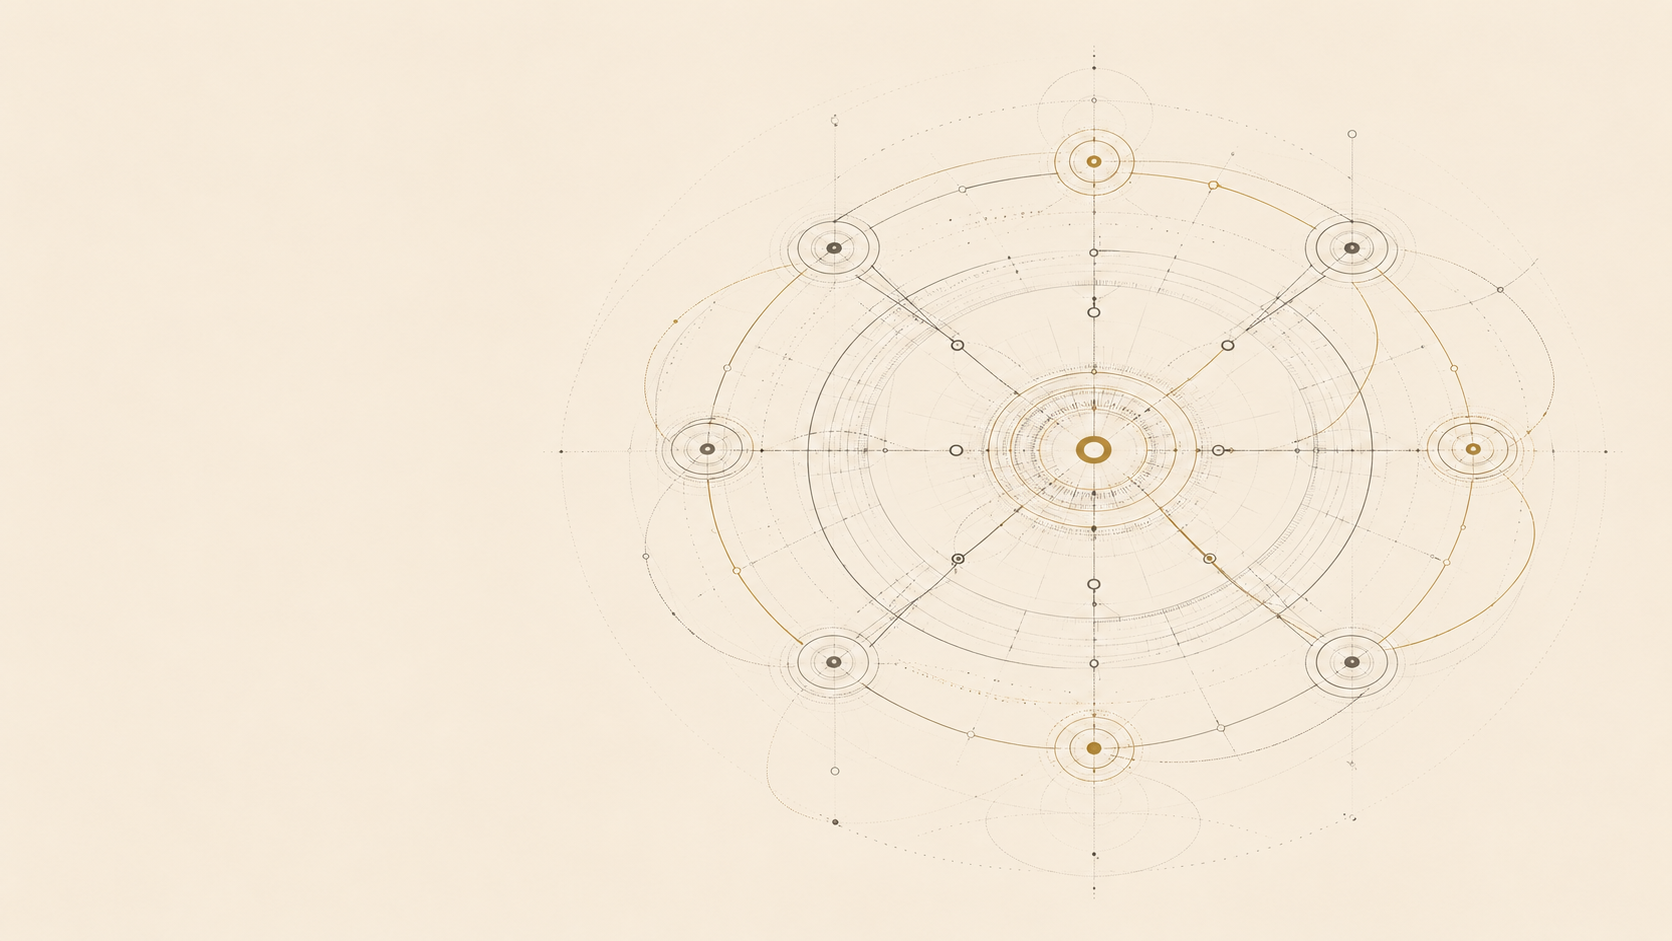
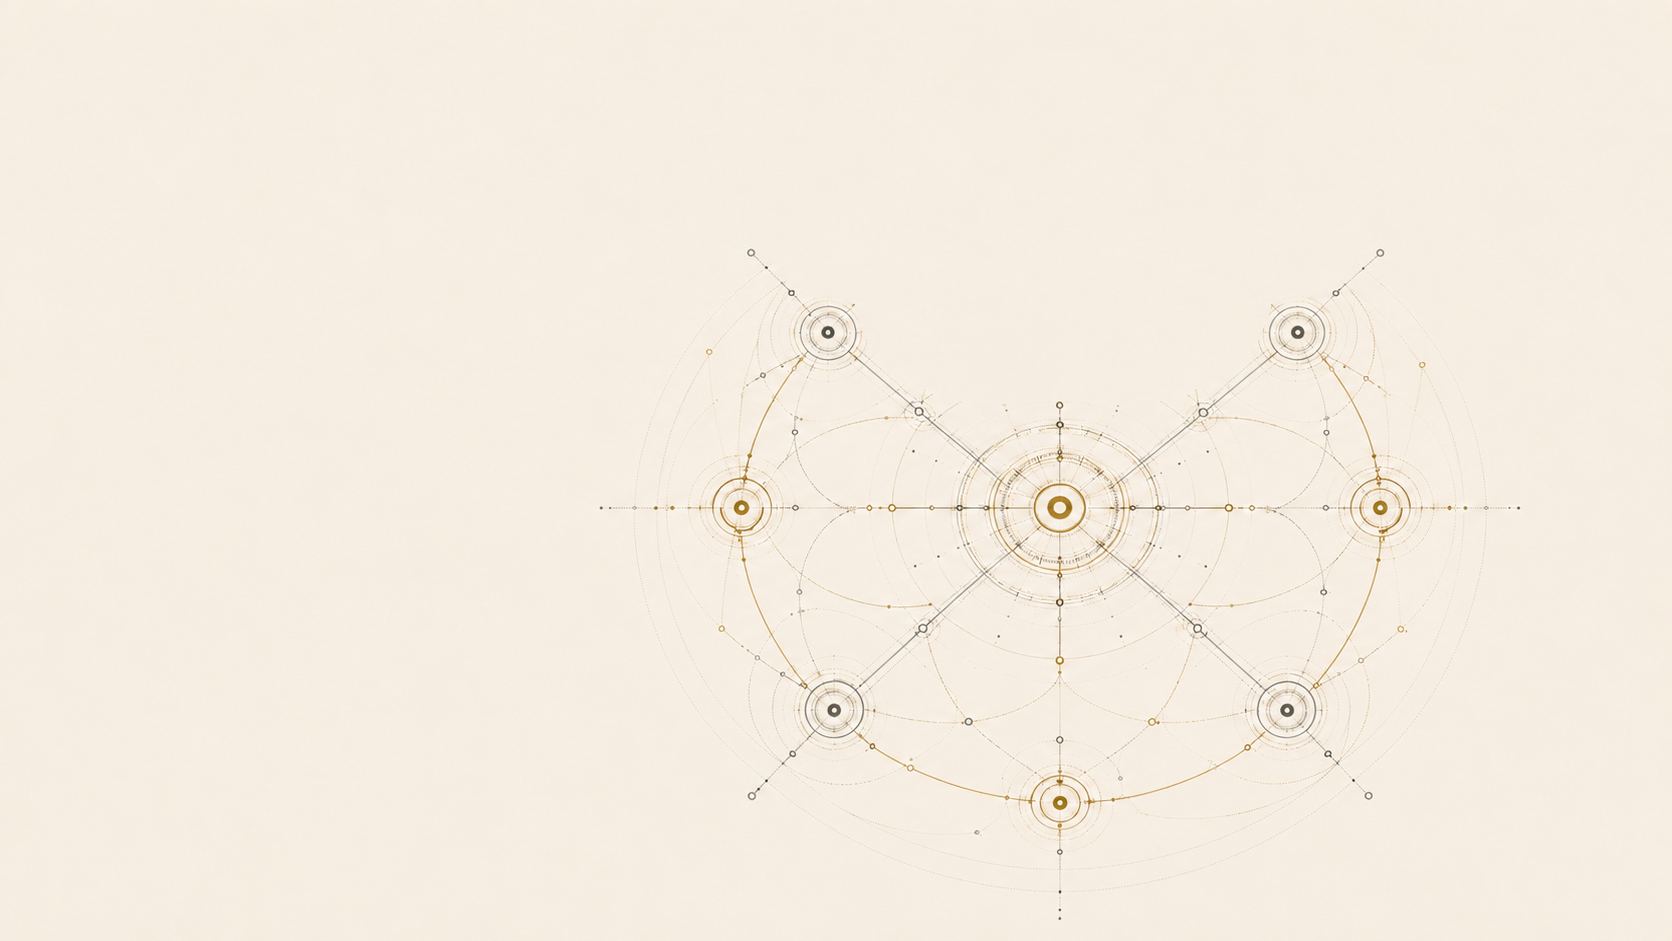
Update hero section graphic with new image file
Replaces the existing hero image import with a new graphic file in `LivingTrustFramework.tsx`.

Replit-Commit-Author: Agent
Replit-Commit-Session-Id: eed518a8-6e42-42df-92e1-83e3ccba49c7
Replit-Commit-Checkpoint-Type: full_checkpoint
Replit-Commit-Event-Id: 6d6ad586-7314-497f-8925-eab7d303bd90
Replit-Commit-Screenshot-Url: https://storage.googleapis.com/screenshot-production-us-central1/1901d538-a8c8-413d-9b5f-3c10844c8ccd/eed518a8-6e42-42df-92e1-83e3ccba49c7/YLxIsMz
Replit-Helium-Checkpoint-Created: true

diff --git a/artifacts/playa-ai/src/pages/LivingTrustFramework.tsx b/artifacts/playa-ai/src/pages/LivingTrustFramework.tsx
@@ -2,7 +2,7 @@ import { motion } from "framer-motion";
 import { SiteHeader } from "@/components/SiteHeader";
 import { SiteFooter } from "@/components/SiteFooter";
 import { MonoLabel } from "@/components/MonoLabel";
-import ltfSystemsMapImg from "@assets/ltf-systems-map.png";
+import ltfSystemsMapImg from "@assets/ChatGPT_Image_Jul_15,_2026,_09_28_07_PM_1784140223332.png";
 
 const fadeInUp = {
   hidden: { opacity: 0, y: 20 },
